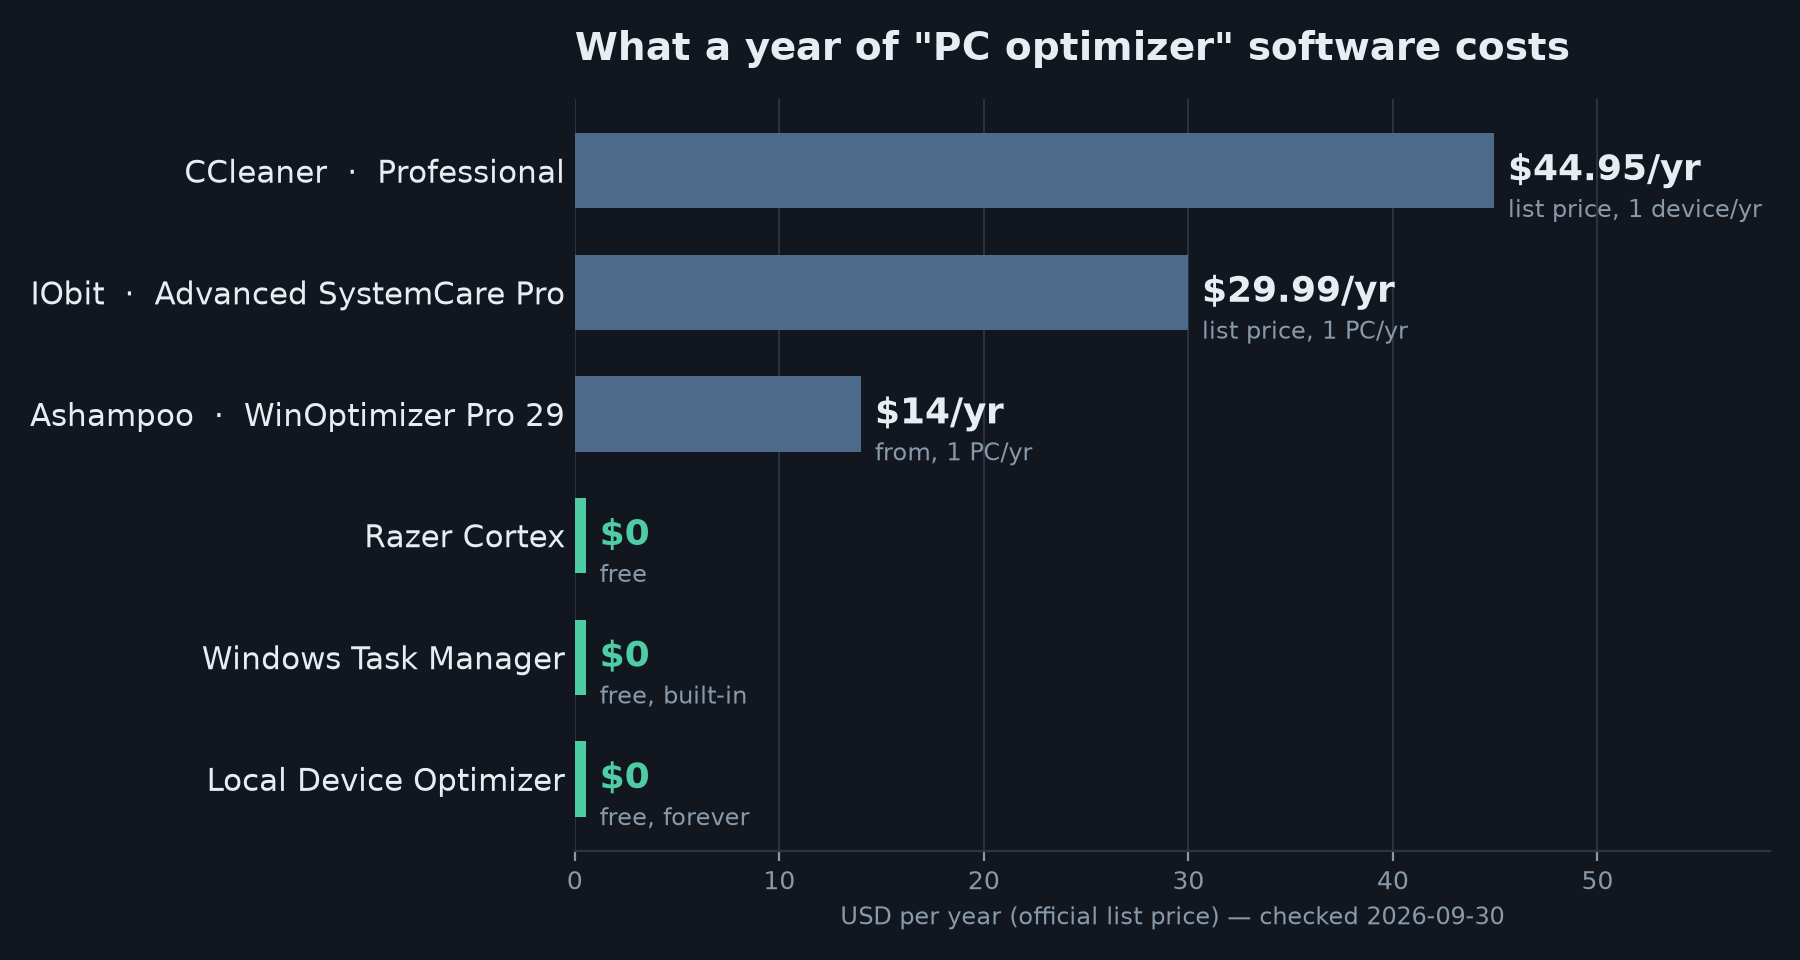
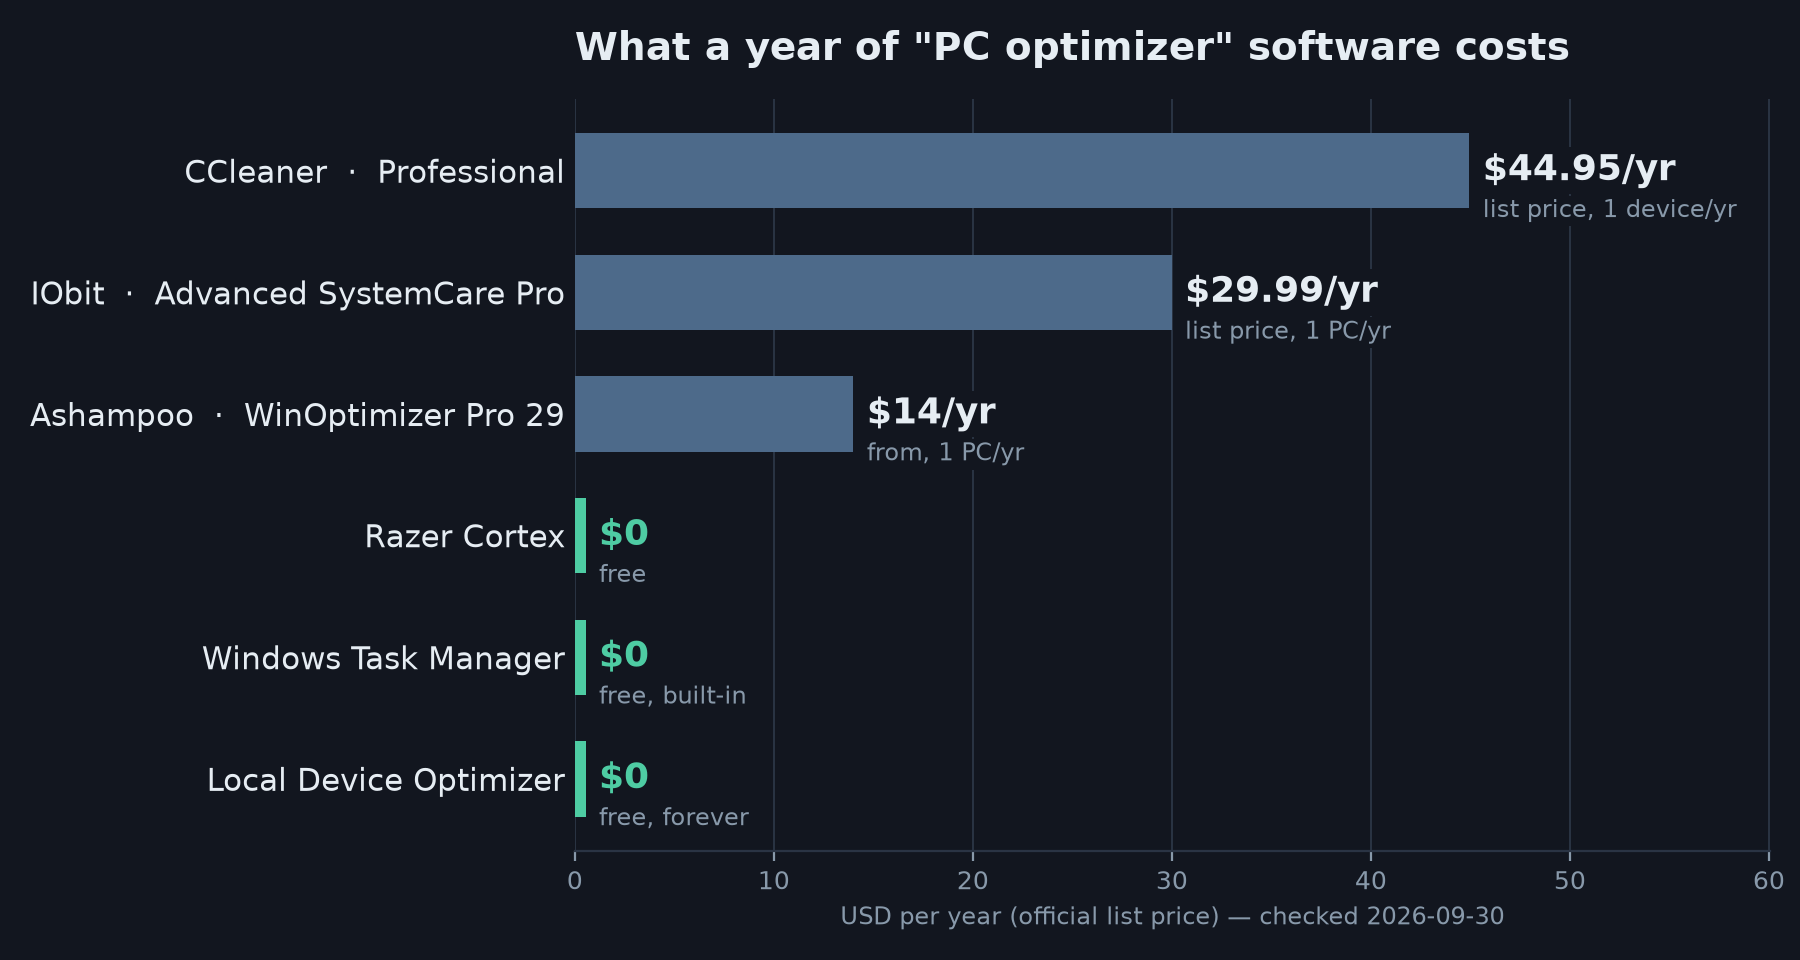
docs: fix cost chart gridlines running through price labels

diff --git a/scripts/make_cost_chart.py b/scripts/make_cost_chart.py
@@ -59,13 +59,16 @@ def main() -> None:
     shown = [v if v > 0 else top * 0.012 for v in values]
     ax.barh(ypos, shown, color=colors, height=0.62, zorder=3)
 
+    label_bbox = dict(boxstyle="square,pad=0.15", fc=BG, ec="none")
+    label_texts = []
     for y, (_, value, note) in zip(ypos, DATA, strict=True):
         price = "$0" if value == 0 else f"${value:g}/yr"
         color = FREE_COLOR if value == 0 else FG
         x = max(value, top * 0.012) + top * 0.015
-        ax.text(x, y, price, va="center", ha="left", color=color,
-                fontsize=13, fontweight="bold")
-        ax.text(x, y - 0.33, note, va="center", ha="left", color=MUTED, fontsize=8.5)
+        label_texts.append(ax.text(x, y, price, va="center", ha="left", color=color,
+                fontsize=13, fontweight="bold", zorder=4, bbox=label_bbox))
+        label_texts.append(ax.text(x, y - 0.33, note, va="center", ha="left", color=MUTED,
+                fontsize=8.5, zorder=4, bbox=label_bbox))
 
     ax.set_yticks(ypos, labels)
     ax.tick_params(axis="y", colors=FG, labelsize=11, length=0)
@@ -79,8 +82,26 @@ def main() -> None:
         ax.spines[side].set_visible(False)
     ax.spines["bottom"].set_color("#2a3444")
     ax.xaxis.grid(True, color="#2a3444", linewidth=0.7, zorder=0)
+    ax.set_axisbelow(True)
 
     fig.tight_layout()
+
+    # Extend the x-axis so the widest label (sub-label text, which can run
+    # past the bar) ends with real padding before the image's right edge,
+    # instead of running flush against it. Measured in actual rendered
+    # pixels so it holds regardless of font/DPI/label-length changes.
+    fig.canvas.draw()
+    renderer = fig.canvas.get_renderer()
+    axis_width_px = ax.get_window_extent(renderer=renderer).width
+    left, right = ax.get_xlim()
+    max_text_x_data = max(
+        ax.transData.inverted().transform((t.get_window_extent(renderer=renderer).x1, 0))[0]
+        for t in label_texts
+    )
+    pad_px = 40
+    new_right = left + (max_text_x_data - left) / (1 - pad_px / axis_width_px)
+    ax.set_xlim(left, max(right, new_right))
+
     os.makedirs(os.path.dirname(OUT_PATH), exist_ok=True)
     fig.savefig(OUT_PATH, facecolor=BG)
     print(f"Wrote {OUT_PATH}")
